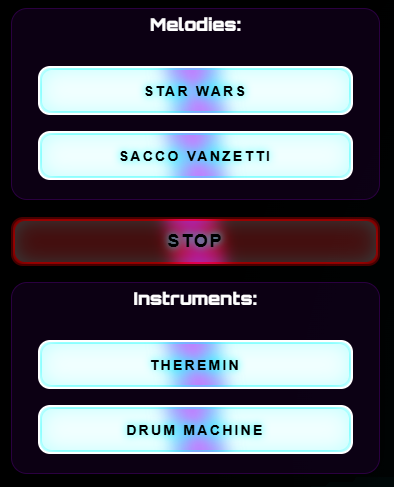
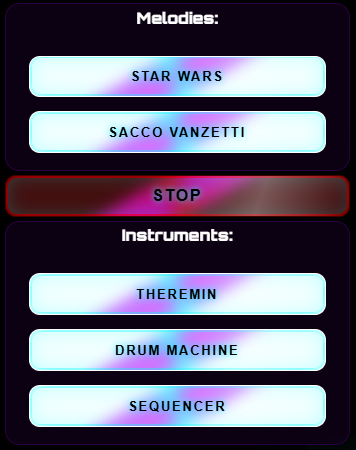
MAJ design Sequencer (JS+html+CSS) + MAJ screenshot et readme pour la doc

diff --git a/css/sequencer.css b/css/sequencer.css
@@ -18,16 +18,70 @@
 
 .controlsSeq {
     display: flex;
-    justify-content: center;
-    align-items: center;
-    gap: 2rem;
-    padding: 1.5rem;
-    flex-wrap: wrap;
+    flex-direction: row;
+    justify-content: space-around;
 }
 
-#playSeq {
-    font-size: 1.4rem;
+#controlsSequencer {
+    margin-top: 20px;
+    margin-bottom: 10px;
+}
+
+.play-seq {
     padding: 1rem 3rem;
+    font-size: 1.4rem;
+    background: linear-gradient(145deg, #00d4ff, #0099cc);
+    color: white;
+    border: none;
+    border-radius: 50px;
+    cursor: pointer;
+    box-shadow: 0 0 30px var(--accent-glow);
+    transition: all 0.3s ease;
+    position: relative;
+    top: -5px;
+}
+
+.play-seq:hover {
+    box-shadow: 0 0 50px var(--accent-glow);
+    background: var(--accent-glow);
+}
+
+.stop-seq {
+    padding: 1rem 3rem;
+    font-size: 1.4rem;
+    background: linear-gradient(145deg, #ff3366, #cc0033);
+    color: white;
+    border: none;
+    border-radius: 50px;
+    cursor: pointer;
+    box-shadow: 0 0 40px #ff336688;
+    transition: all 0.3s ease;
+    position: relative;
+    top: -5px;
+}
+
+.stop-seq:hover {
+    background: #ff336644;
+    box-shadow: 0 0 40px #ff336688;
+}
+
+#loadFunk, #loadNuDisco, #loadNull {
+    padding: 1rem 3rem;
+    font-size: 1.4rem;
+    background: linear-gradient(145deg, #335566, #444455);
+    color: white;
+    border: none;
+    border-radius: 50px;
+    cursor: pointer;
+    box-shadow: 0 0 30px var(--accent-glow);
+    transition: all 0.3s ease;
+    position: relative;
+    top: -5px;
+}
+
+#loadFunk:hover, #loadNuDisco:hover, #loadNull:hover {
+    box-shadow: 0 0 50px var(--accent-glow);
+    background: var(--selectedGrey);
 }
 
 #bpmSeq {

diff --git a/index.html b/index.html
@@ -1124,20 +1124,21 @@
 					<div id="sequencerContainerSequencer">
 
 						<div class="controlsSeq">
-							<button id="playSeq">PLAY / STOP</button>
-							<div>
-							<label>BPM: <span id="bpmVal">120</span></label>
-							<input type="range" id="bpmSeq" min="60" max="180" value="120">
-							</div>
-
-							<div>
-							<label>VOLUME: <span id="volumeVal">50</span></label>
-							<input type="range" id="volumeSeq" min="0" max="100" value="50">
-							</div>
-
+							<button id="playSeq" class="play-seq">PLAY</button>
 							<button id="loadFunk">Charger Funk Disco</button>
 							<button id="loadNuDisco">Charger Nu-Disco</button>
 							<button id="loadNull">Charger Null pattern</button>
+						</div>
+
+						<div id="controlsSequencer" class="controlsSeq">
+							<div>
+								<label>BPM: <span id="bpmVal">120</span></label>
+								<input type="range" id="bpmSeq" min="60" max="180" value="120">
+							</div>
+							<div>
+								<label>VOLUME: <span id="volumeVal">50</span></label>
+								<input type="range" id="volumeSeq" min="0" max="100" value="50">
+							</div>
 						</div>
 
 						<h5 class="h5Seq"> GUITAR SEQUENCER </h5>

diff --git a/webaudio.js b/webaudio.js
@@ -3337,6 +3337,7 @@ setTimeout(() => {
         if (instr === 'sax')    active = pattern_sax[row][col];
         
         btn.classList.toggle('active', active);
+		btn.classList.toggle('btn-futur', active);
       });
     }
 
@@ -3381,13 +3382,17 @@ setTimeout(() => {
 
 		// Contrôles
 		document.getElementById('playSeq').onclick = () => {
-		if (isPlayingSeq) {
-			stopSeq();
-			document.getElementById('playSeq').textContent = 'PLAY';
-		} else {
-			startSeq();
-			document.getElementById('playSeq').textContent = 'STOP';
-		}
+			if (isPlayingSeq) {
+				stopSeq();
+				let btn = document.getElementById('playSeq');
+				btn.textContent = 'PLAY';
+				btn.className = "play-dm";
+			} else {
+				startSeq();
+				let btn = document.getElementById('playSeq');
+				btn.textContent = 'STOP';
+				btn.className = "stop-dm";
+			}
 		};
 
 		document.getElementById('bpmSeq').oninput = (e) => {

diff --git a/README.md b/README.md
@@ -55,6 +55,7 @@
                 <li><a href="#audio-params">Les paramètres audio</a></li>
                 <li><a href="#drum-machine">La boîte à rythmes</a></li>
                 <li><a href="#theremin">Le theremin</a></li>
+                <li><a href="#sequencer">Le séquenceur</a></li>
             </ul>
         </li>
       </ul>
@@ -70,7 +71,7 @@
                 <li><a href="#code-synthe">Code du Le synthétiseur</a></li>
                 <li><a href="#code-melody">Code des mélodies</a></li>
                 <li><a href="#code-audio-params">Code des paramètres/effets audio</a></li>
-                <li><a href="#code-drum-machine-theremin">Code de la boîte à rythmes et du theremin</a></li>
+                <li><a href="#code-drum-machine-theremin">Code de la boîte à rythmes, du theremin et du séquenceur</a></li>
             </ul>
         </li>
       </ul>
@@ -296,7 +297,7 @@ Deux mélodies sont actuellement disponibles:
 
 Le bouton **STOP** permet de **tuer tout le contexte Audio** (fonctionne à tout moment)
 
-2 autres boutons ont également été rajoutés, le premier permettant d'ouvrir une popin avec un **Thérémine**, le second permettant d'ouvrir une popin avec une **boîte à rythme**.
+3 autres boutons ont également été rajoutés, le premier permettant d'ouvrir une popin avec un **Thérémine**, le second permettant d'ouvrir une popin avec une **boîte à rythme**, enfin le troisième bouton permet d'ouvrir une popin avec un **Sequencer** de 4 instruments (guitare, basse, trompette et saxophone).
 
 
 <div align="center">

diff --git a/README_US.md b/README_US.md
@@ -55,6 +55,7 @@
                 <li><a href="#audio-params">Audio settings</a></li>
                 <li><a href="#drum-machine">Drum Machine</a></li>
                 <li><a href="#theremin">Theremin</a></li>
+                <li><a href="#sequencer">Sequencer</a></li>
             </ul>
         </li>
       </ul>
@@ -70,7 +71,7 @@
                 <li><a href="#code-synthe">Synthesizer implementation</a></li>
                 <li><a href="#code-melody">Melodies Implementation</a></li>
                 <li><a href="#code-audio-params">Audio Parameters and Effects implementation</a></li>
-                <li><a href="#code-drum-machine-theremin">Drum Machine and Theremin implementation</a></li>
+                <li><a href="#code-drum-machine-theremin">Drum Machine, Theremin and Sequencer implementation</a></li>
             </ul>
         </li>
       </ul>
@@ -308,7 +309,7 @@ Two melodies are currently available:
 
 The **STOP** button allows you to **kill the entire audio context** (works at any time).
 
-Two other buttons have also been added: the first opens a pop-up with a **Theremin**, and the second opens a pop-up with a **Drum Machine**.
+Two other buttons have also been added: the first opens a pop-in with a **Theremin**, and the second opens a pop-in with a **Drum Machine**, finally the third button allows you to open a pop-in with a **Sequencer** of 4 instruments (guitar, bass, trumpet and saxophone).
 
 
 <div align="center">
